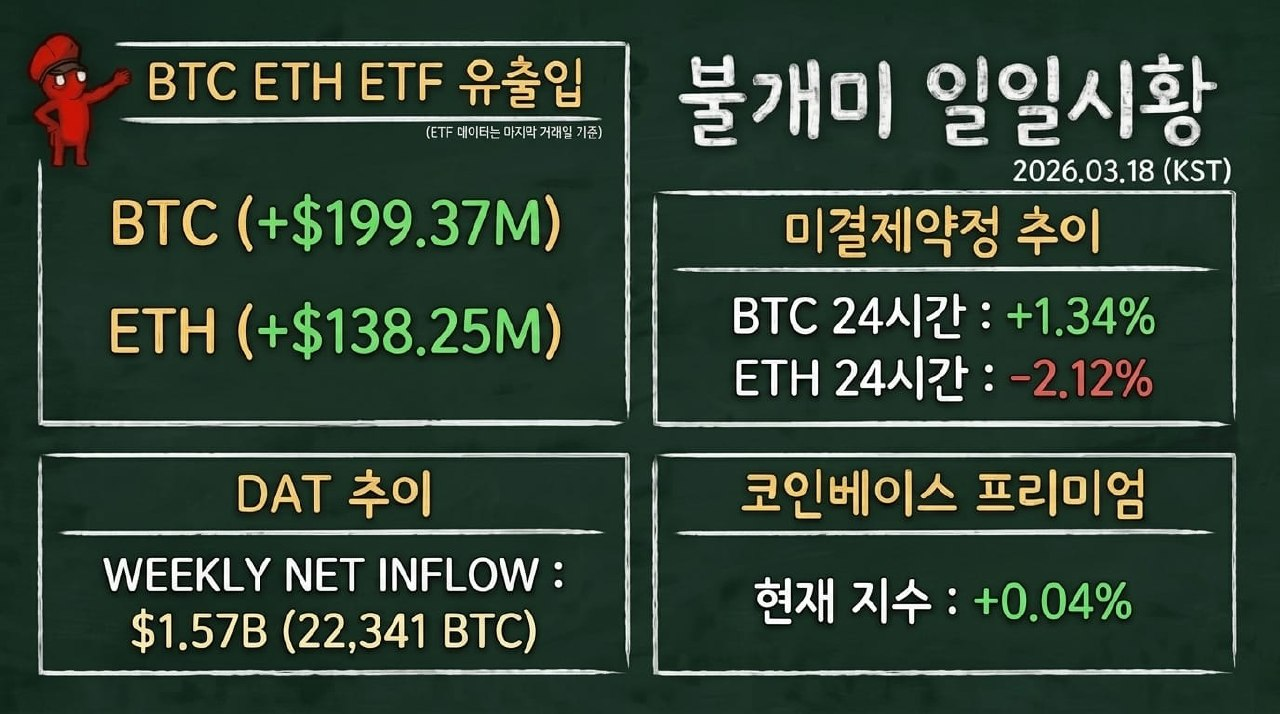
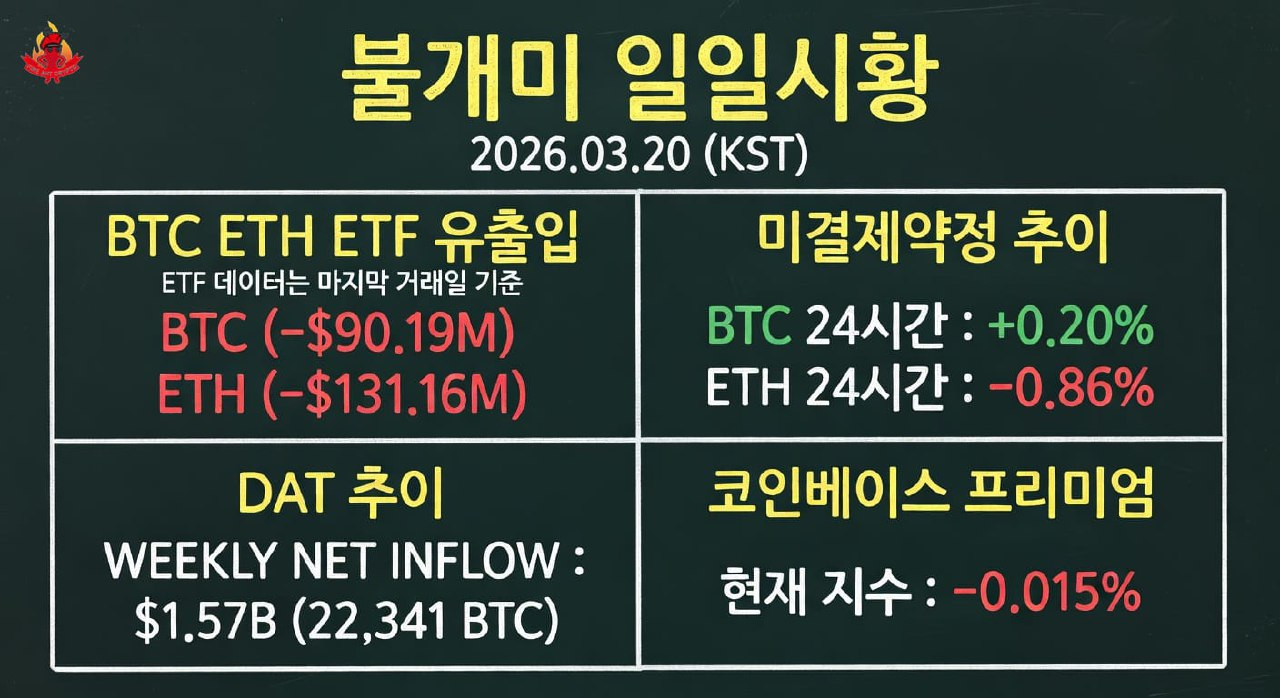
feat: 일일시황 레퍼런스 이미지 교체 + 로고/숫자 정확도 강화 스크립트 확정 (2026-03-20)

diff --git a/gen_daily_report.py b/gen_daily_report.py
@@ -41,40 +41,70 @@ MODEL_CHAIN = [
 btc_dir = "순유입" if "+" in btc_etf else "순유출"
 eth_dir = "순유입" if "+" in eth_etf else "순유출"
 
-prompt = f"""이 이미지를 완전히 동일한 스타일과 레이아웃으로 재현하되, 아래 데이터로 수치만 교체해서 새로 생성해라.
+prompt = f"""=== 숫자 정확도 최우선 규칙 ===
+아래 숫자들을 한 글자도 빠짐없이 정확하게 표기해야 한다. 숫자가 잘리거나 누락되면 실패다.
+- "BTC (-$90.19M)" — 반드시 이 글자 그대로. "$90" 절대 누락 금지.
+- "ETH (-$131.16M)" — 반드시 이 글자 그대로. "$131" 절대 누락 금지.
+- "$1.57B (22,341 BTC)" — 반드시 이 글자 그대로.
+- "-0.015%" — 반드시 이 글자 그대로.
+- "+0.20%" — 반드시 이 글자 그대로.
+- "-0.86%" — 반드시 이 글자 그대로.
+숫자 사이에 공백 삽입 금지. "$ 90" "- 0.015" 등 공백 분리 절대 금지.
 
-=== 교체할 데이터 (아래 텍스트를 글자 하나도 틀리지 말고 그대로 표기) ===
+어두운 칠판 배경(dark chalkboard green/black)에 분필 스타일로 그려진 암호화폐 일일시황 이미지를 생성해라.
 
-[좌상단 박스 제목] BTC ETH ETF 유출입
-[좌상단 부제] ETF 데이터는 마지막 거래일 기준
-[좌상단 BTC 줄] BTC ({btc_etf})
-[좌상단 ETH 줄] ETH ({eth_etf})
+=== 필수 레이아웃: 정확히 2행 2열 그리드 ===
+전체 이미지를 다음과 같이 배치해라:
+- 상단 헤더 바(전체 너비): "불개미 일일시황" 제목 + {date_str} 날짜
+- 하단 영역: 정확히 2×2 그리드 (4개 박스, 완전 동일 크기, 동일 여백)
+  - [좌상] BTC ETH ETF 유출입 박스
+  - [우상] 미결제약정 추이 박스
+  - [좌하] DAT 추이 박스
+  - [우하] 코인베이스 프리미엄 박스
 
-[우상단 큰 제목] 불개미 일일시황
-[우상단 날짜] {date_str}
+=== 대칭 규칙 (절대 준수) ===
+- 4개 박스 크기 완전 동일 (픽셀 단위로 동일한 너비, 동일한 높이)
+- 4개 박스 간격 완전 동일 (상하좌우 여백 모두 동일)
+- 좌측 2개 박스와 우측 2개 박스 너비 동일
+- 상단 2개 박스와 하단 2개 박스 높이 동일
+- 박스 내부 텍스트 정렬 통일 (제목은 좌측 정렬 또는 중앙 정렬 통일)
 
-[우중단 박스 제목] 미결제약정 추이
-[우중단 줄1] BTC 24시간 : {btc_oi_24h}
-[우중단 줄2] ETH 24시간 : {eth_oi_24h}
-※ 반드시 위 2줄만. "32시간" "48시간" "72시간" 같은 항목 절대 추가하지 말 것.
+=== 각 박스 내용 ===
 
-[좌하단 박스 제목] DAT 추이
-[좌하단 줄1] WEEKLY NET INFLOW : {dat_now}
-※ 줄 1개만. 나머지 줄 추가 금지. "WEEKLY NET INFLOW" 텍스트 오타 절대 금지.
+[상단 헤더 - 박스 없이 칠판 배경에 직접 표기]
+큰 제목: 불개미 일일시황 (노란색, 분필 대형 글씨)
+날짜: {date_str} (흰색, 중간 크기)
 
-[우하단 박스 제목] 코인베이스 프리미엄
-[우하단 줄1] 현재 지수 : {cb_premium}
-※ "형재" "형제" 오타 절대 금지. 반드시 "현재 지수"로 표기.
+[좌상단 박스 - BTC ETH ETF 유출입]
+제목: BTC ETH ETF 유출입 (노란색)
+부제: ETF 데이터는 마지막 거래일 기준 (흰색, 작은 글씨)
+BTC ({btc_etf}) ← 음수면 빨간색, 양수면 초록색
+ETH ({eth_etf}) ← 음수면 빨간색, 양수면 초록색
 
-=== 스타일 규칙 (절대 변경 금지) ===
-- 나무 액자 프레임 완전 없음. 칠판 배경이 이미지 끝까지 꽉 차야 함. 갈색/브라운 테두리 절대 금지.
-- 어두운 칠판 배경 (dark chalkboard green/black)
-- 분필 폰트 (chalk font, handwritten feel)
-- 좌상단 캐릭터·로고·아이콘 등 일체 없음. 칠판 영역만 표시
-- 섹션 박스: 흰색 분필선 직사각형
-- 색상: 양수=초록, 음수=빨강, BTC·ETH 헤더=노란색, 일반텍스트=흰색
-- 16:9 와이드 비율
-- 위에 명시된 텍스트 외 임의 내용(블랙록, 피델리티 등 세부 데이터) 추가 금지"""
+[우상단 박스 - 미결제약정 추이]
+제목: 미결제약정 추이 (노란색)
+BTC 24시간 : {btc_oi_24h} ← 음수면 빨간색, 양수면 초록색
+ETH 24시간 : {eth_oi_24h} ← 음수면 빨간색, 양수면 초록색
+※ 이 박스에는 위 2줄만. 다른 줄 절대 추가 금지.
+
+[좌하단 박스 - DAT 추이]
+제목: DAT 추이 (노란색)
+WEEKLY NET INFLOW : {dat_now} (흰색)
+※ 이 박스에는 위 1줄만. 다른 줄 절대 추가 금지.
+
+[우하단 박스 - 코인베이스 프리미엄]
+제목: 코인베이스 프리미엄 (노란색)
+현재 지수 : {cb_premium} ← 음수면 빨간색, 양수면 초록색
+※ 반드시 "현재 지수"로 표기. "형재" "형제" 오타 절대 금지.
+
+=== 스타일 규칙 ===
+- 배경: 어두운 칠판 녹색/검정 (dark chalkboard green/black)
+- 폰트: 분필 손글씨 느낌 (chalk handwritten font)
+- 박스 테두리: 흰색 분필선 직사각형
+- 나무 액자/갈색 테두리 절대 금지. 칠판이 이미지 끝까지 꽉 차야 함.
+- 캐릭터·로고·아이콘 없음
+- 비율: 16:9 와이드
+- 위에 명시된 텍스트 외 임의 내용 추가 금지 (블랙록, 피델리티 등 세부 데이터 추가 금지)"""
 
 # ── API 호출 (fallback chain) ──────────────────────────────
 
@@ -86,7 +116,18 @@ def get_xai_key():
     return r.stdout.strip() if r.returncode == 0 else None
 
 def overlay_logo(img_rgba):
-    """로고 합성 비활성화 (해병님 요청: 좌상단 로고 삭제)"""
+    """로고를 좌상단에 합성 (높이 90px, 비율 유지, 여백 12px)"""
+    from PIL import Image as PILImage
+    if not os.path.exists(LOGO_IMG):
+        print(f"⚠ 로고 파일 없음: {LOGO_IMG}", file=sys.stderr)
+        return img_rgba
+    logo = PILImage.open(LOGO_IMG).convert("RGBA")
+    target_h = 90
+    ratio = target_h / logo.height
+    target_w = int(logo.width * ratio)
+    logo = logo.resize((target_w, target_h), PILImage.LANCZOS)
+    margin = 12
+    img_rgba.paste(logo, (margin, margin), logo)
     return img_rgba
 
 def try_grok(prompt_text):
